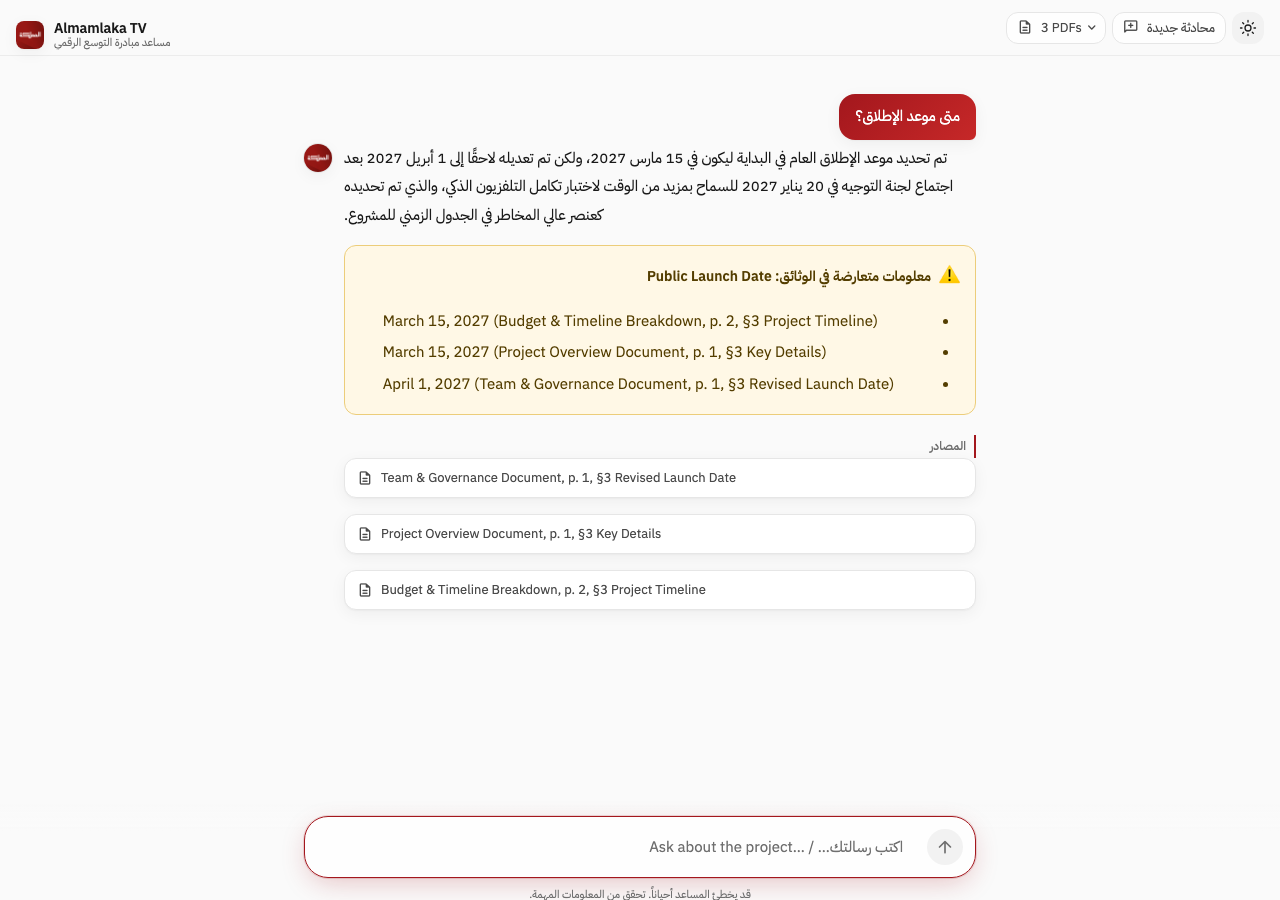
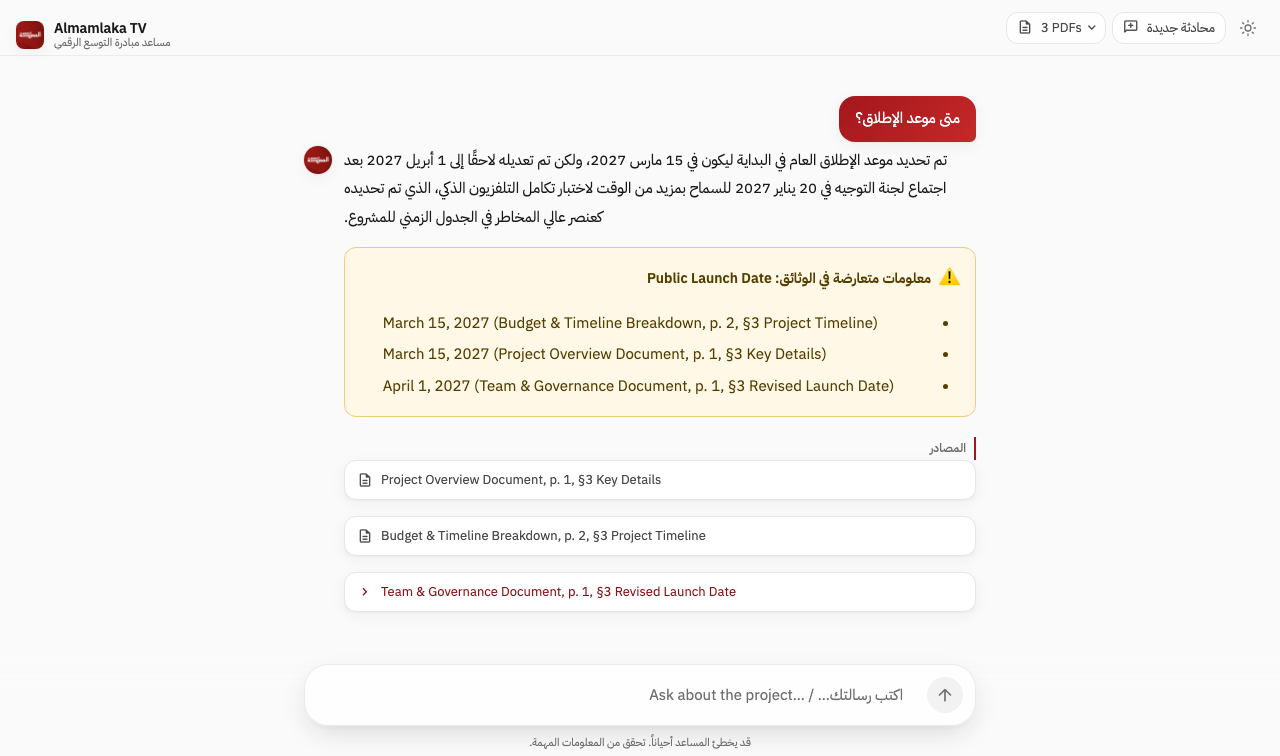
fix: disclaimer bottom spacing, Arabic sources label, #9D1D20 light focus ring, fitted screenshots + out-of-scope sample

diff --git a/assets/style.css b/assets/style.css
@@ -46,7 +46,7 @@
   --c-accent-soft: 198 40 40;
   --c-accent-faint: 248 233 233;/* #F8E9E9 */
   --c-accent-deep: 138 19 24;   /* #8A1318 accent text on light */
-  --c-focus: 163 23 29;
+  --c-focus: 157 29 32;         /* #9D1D20 focus ring on light */
   --c-stone-200: 230 230 230;   /* #E6E6E6 */
   --c-stone-300: 212 212 212;
   --c-shadow: 26 26 26;
@@ -502,7 +502,8 @@ footer,
 }
 [data-testid="stBottomBlockContainer"] {
   max-width: calc(var(--content-w) + 2rem);
-  padding: 12px 1rem 10px !important;
+  /* room under the disclaimer so it never touches the viewport edge */
+  padding: 12px 1rem calc(20px + env(safe-area-inset-bottom, 0px)) !important;
 }
 [data-testid="stBottomBlockContainer"] [data-testid="stVerticalBlock"] { gap: 8px; }
 .mm-disclaimer {

diff --git a/app.py b/app.py
@@ -89,15 +89,23 @@ THREAD_SCRIPT = """<script>
 </script><span class="mm-thread-tick" data-count="%d" hidden></span>"""
 
 
-# Gives Streamlit's send button an Arabic accessible name (constant script).
+# Gives Streamlit's send button and the sources popover trigger Arabic-first
+# accessible names (constant script, no user data).
 COMPOSER_SCRIPT = """<script>
 (function () {
   if (window.__mmComposerA11y) { return; }
   window.__mmComposerA11y = true;
-  var label = function () {
-    document.querySelectorAll('[data-testid="stChatInputSubmitButton"]').forEach(function (b) {
-      if (b.getAttribute('aria-label') !== 'إرسال') { b.setAttribute('aria-label', 'إرسال'); b.title = 'إرسال / Send'; }
+  var name = function (sel, text) {
+    document.querySelectorAll(sel).forEach(function (b) {
+      if (b.getAttribute('aria-label') !== text) { b.setAttribute('aria-label', text); }
     });
+  };
+  var label = function () {
+    name('[data-testid="stChatInputSubmitButton"]', 'إرسال');
+    document.querySelectorAll('[data-testid="stChatInputSubmitButton"]').forEach(function (b) {
+      if (!b.title) { b.title = 'إرسال / Send'; }
+    });
+    name('.st-key-mm_actions [data-testid="stPopover"] button', 'المصادر: ٣ ملفات PDF / Sources: 3 PDFs');
   };
   label();
   new MutationObserver(label).observe(document.body, { childList: true, subtree: true });

diff --git a/README.md b/README.md
@@ -121,7 +121,7 @@ The prompt is generic; nothing about this corpus is hardcoded. Claims with unkno
 ## Branding
 
 - Palette taken from almamlakatv.com: dark navy by default (page `#1B1F2A`, header `#151922`, cards `#232836`, text `#FFFFFF`, muted `#9AA0AD`), red accent `#A3171D` with a `#A3171D → #C62828` gradient; a light theme (page `#FAFAFA`, cards `#FFFFFF`, text `#1A1A1A`) is one click away via the sun/moon switch in the top bar.
-- Logo (`assets/unnamed.jpg`) in the sticky top bar (alt "المملكة") and as the assistant's round avatar; IBM Plex Sans Arabic font.
+- Logo (`assets/logo.svg` if present, otherwise `assets/unnamed.jpg`, which is what ships today) in the sticky top bar (alt "المملكة") and as the assistant's round avatar; IBM Plex Sans Arabic font.
 - Chat layout: centered greeting with a red "متصل" live pill and suggestion chips, red user bubbles, typing indicator, pinned composer, a "3 PDFs" popover listing the knowledge base, and a "محادثة جديدة" (new chat) button.
 - Tokens live as CSS variables in `assets/style.css` (theme base in `.streamlit/config.toml`); visible red focus rings, AA text contrast in both themes, and animations are disabled under `prefers-reduced-motion`.
 
@@ -202,9 +202,9 @@ Known soft spots:
 
 Screenshots captured from the live app:
 
-| Budget conflict (EN) | Launch date in Arabic + conflict | Follow-up + prompt injection |
-|---|---|---|
-| ![Budget conflict](docs/screenshots/01_budget_conflict_en.png) | ![Arabic launch date](docs/screenshots/02_launch_date_arabic.png) | ![Follow-up and injection](docs/screenshots/03_followup_and_injection.png) |
+| Budget conflict (EN) | Launch date in Arabic + conflict | Follow-up + prompt injection | Out-of-scope refusal |
+|---|---|---|---|
+| ![Budget conflict](docs/screenshots/01_budget_conflict_en.png) | ![Arabic launch date](docs/screenshots/02_launch_date_arabic.png) | ![Follow-up and injection](docs/screenshots/03_followup_and_injection.png) | ![Out-of-scope refusal](docs/screenshots/04_out_of_scope.png) |
 
 Real replies from `eval/results.json`:
 
